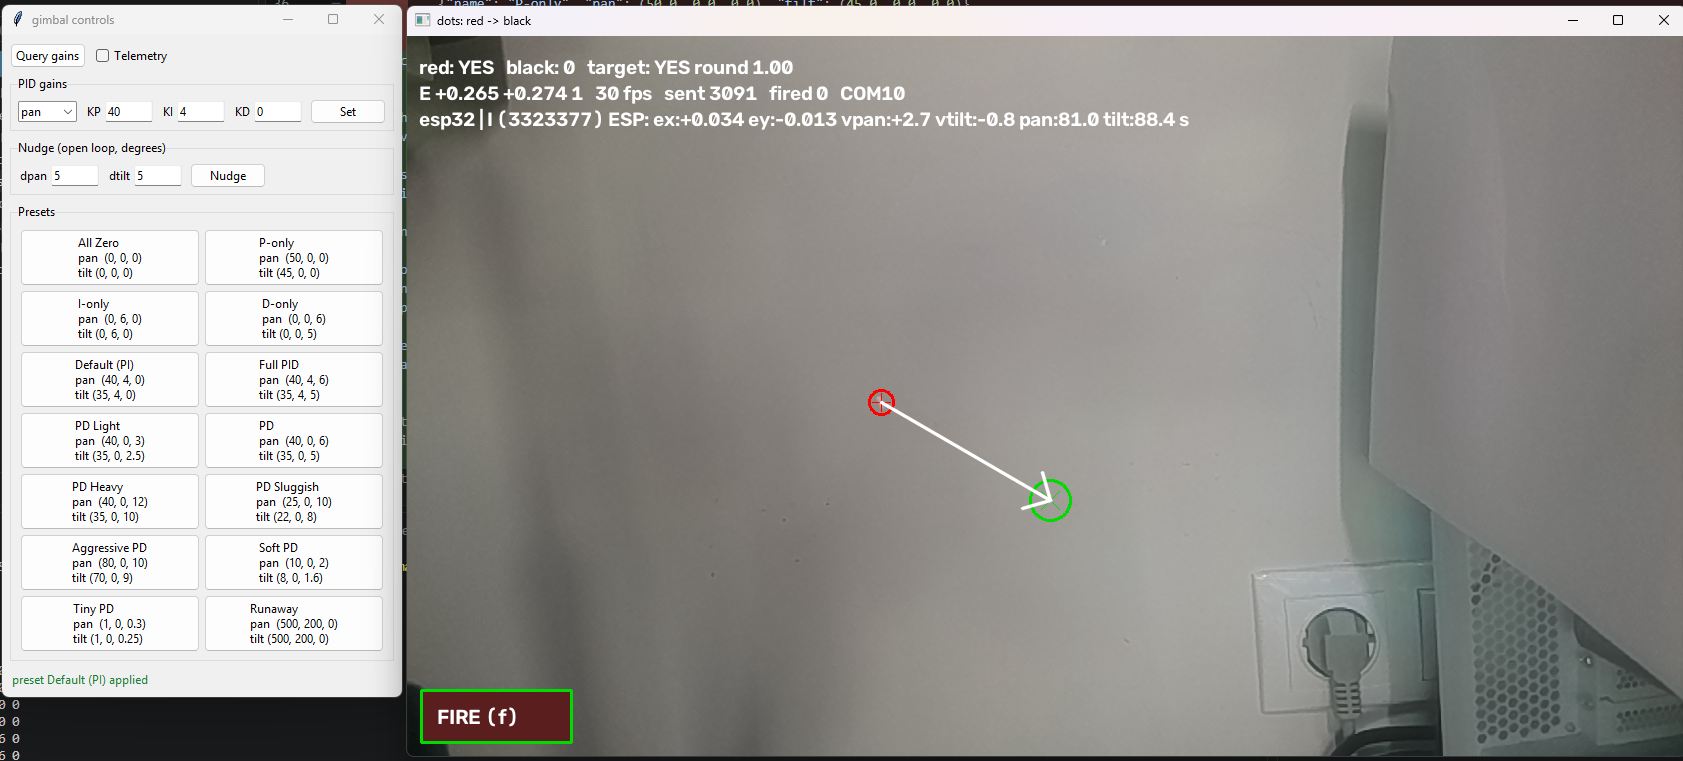
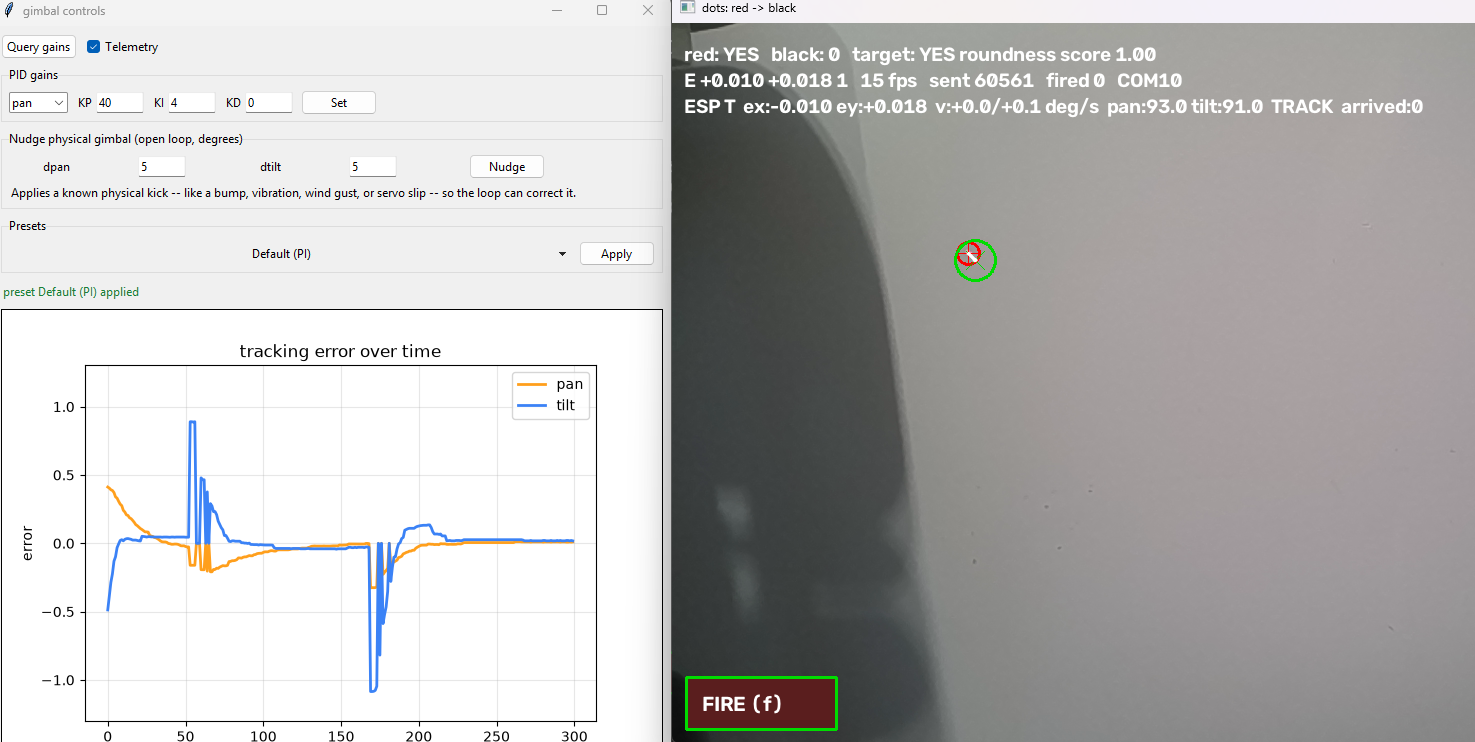
Replace tracking-session.png with new screenshot; add TODO for error graph gaps

diff --git a/workshop-5-miniproject/README.md b/workshop-5-miniproject/README.md
@@ -347,6 +347,10 @@ settle after a step to judge overshoot and settling time.
   time, and the I term only catches up after the fact. Wanted: report target
   velocity from the PC and feed it forward, so the gimbal is commanded to move
   with the target rather than to correct for having been left behind.
+- **Detect why we have gaps on graph for errors.** The error telemetry graph in
+  the controls window sometimes shows discontinuities or missing frames. Investigate
+  whether these are due to dropped serial frames, timing issues in the telemetry
+  stream, gaps in the error vector computation, or display buffering problems.
 
 ### Control and tuning
 
